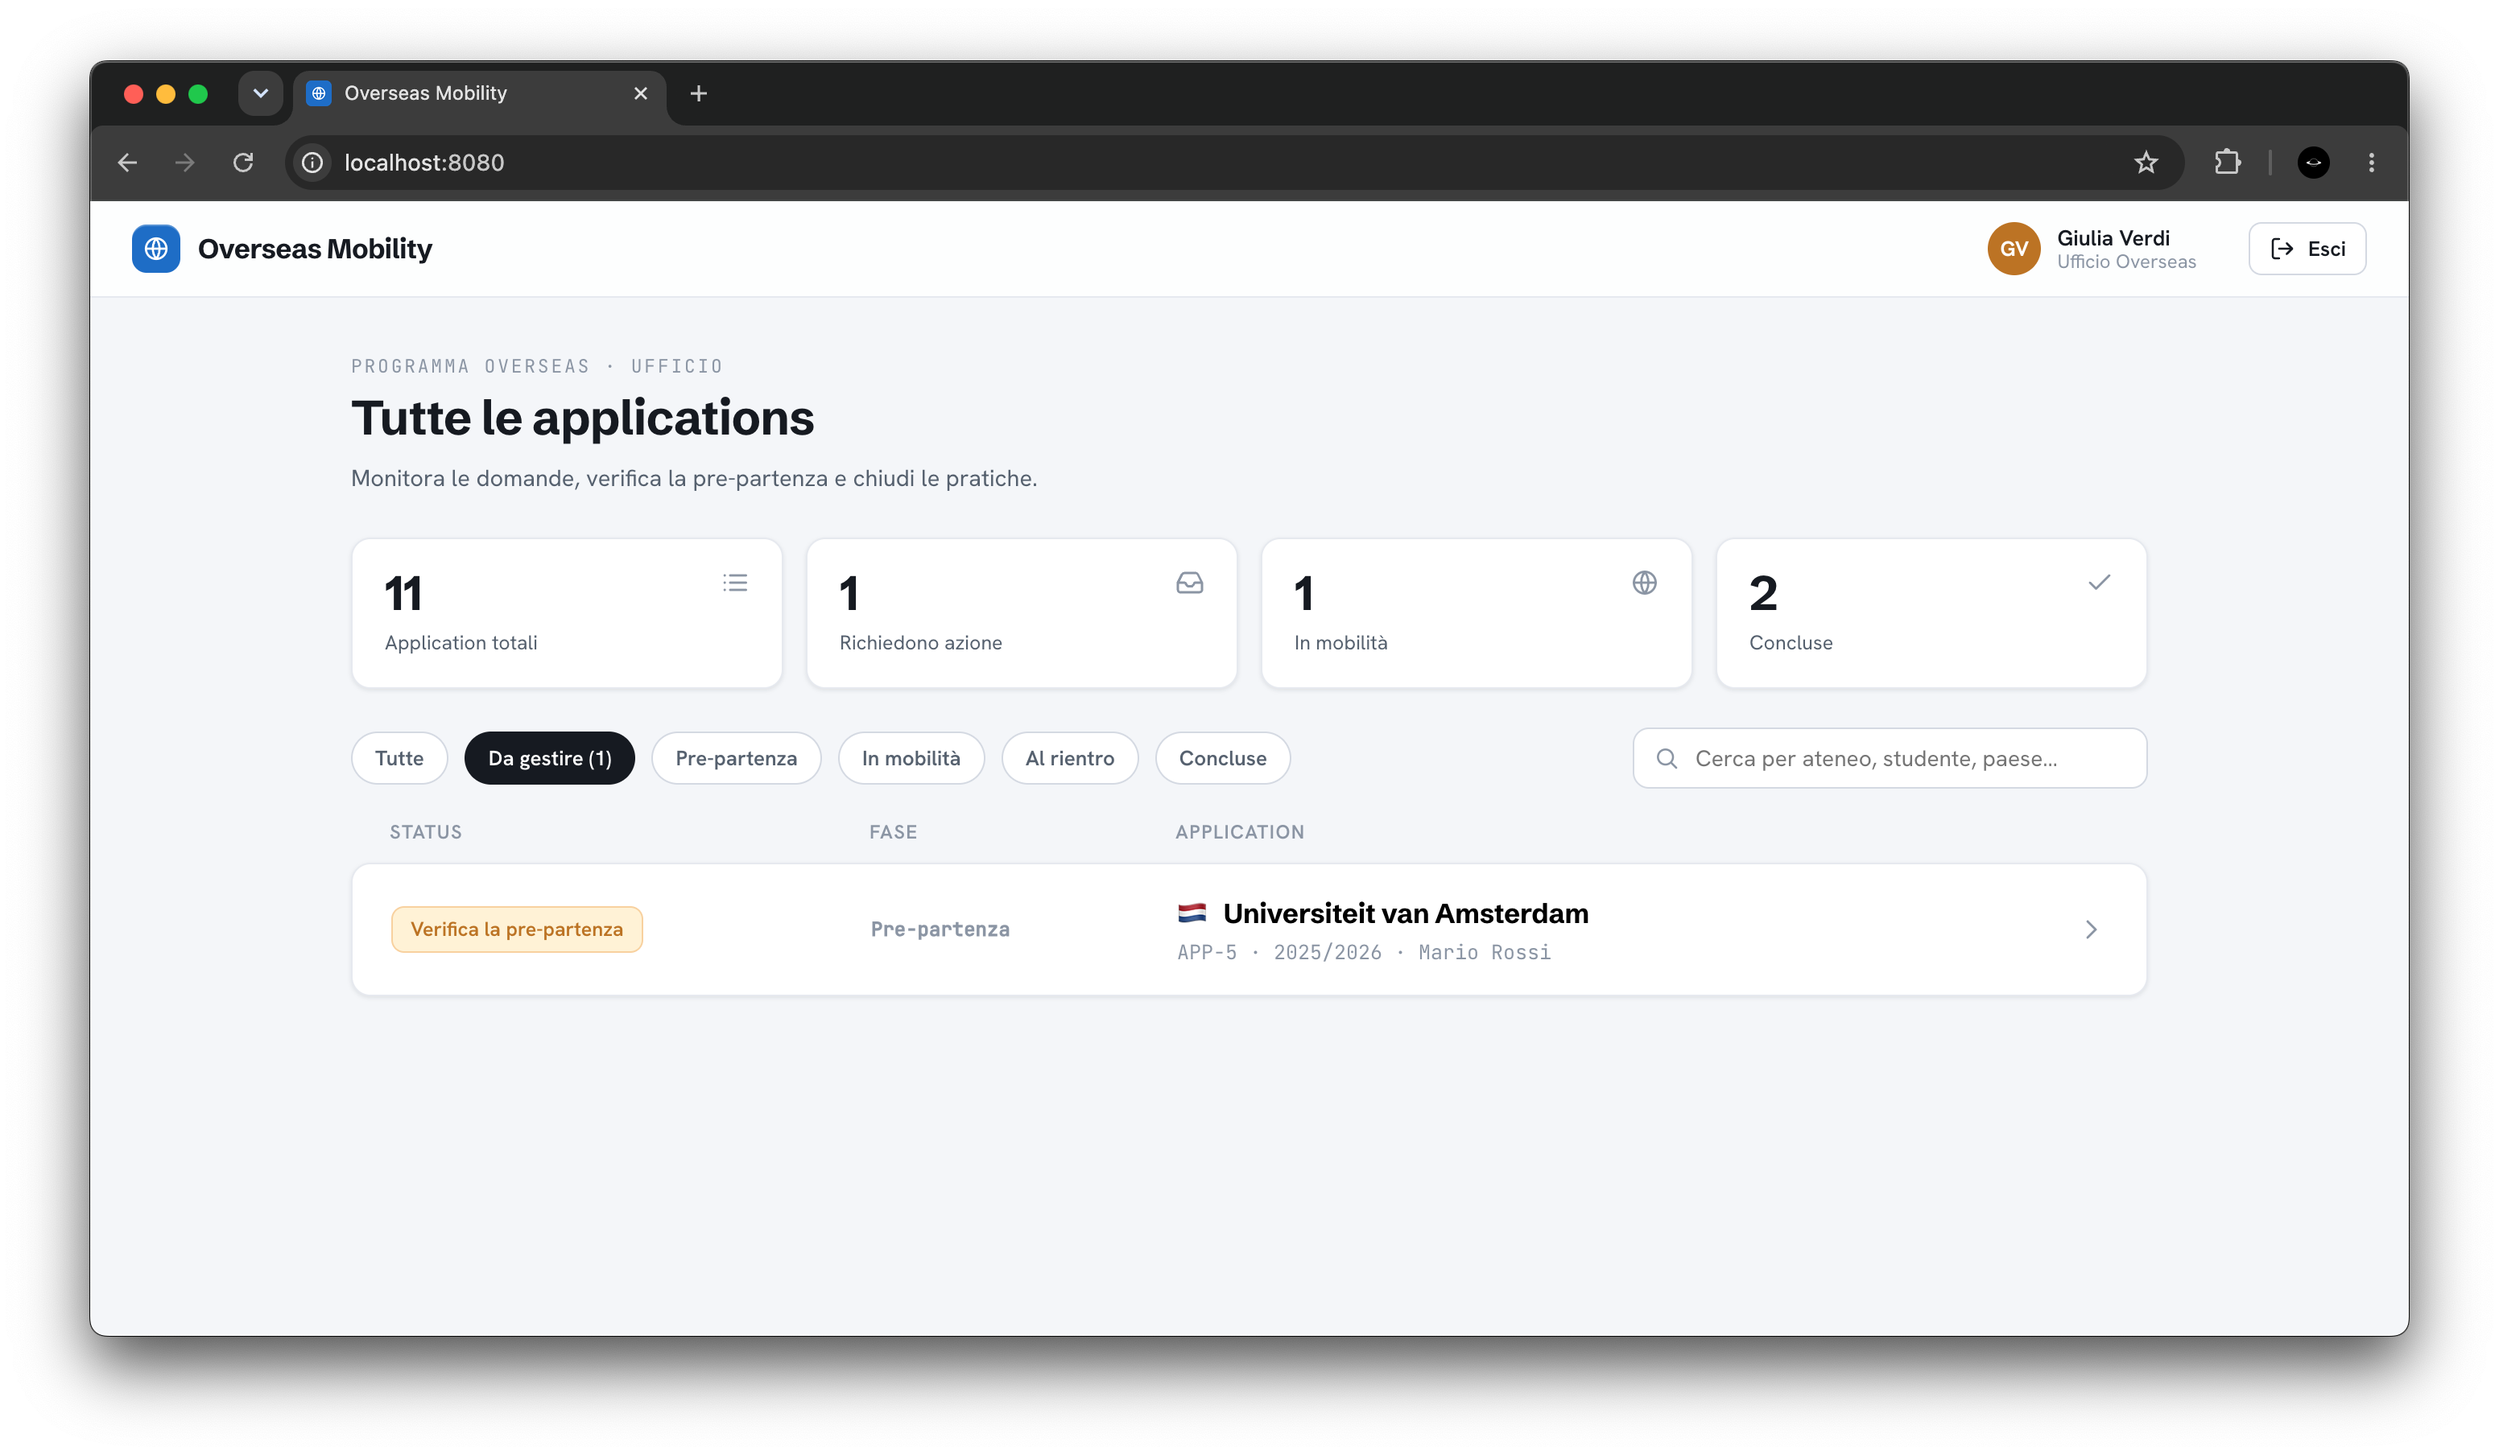
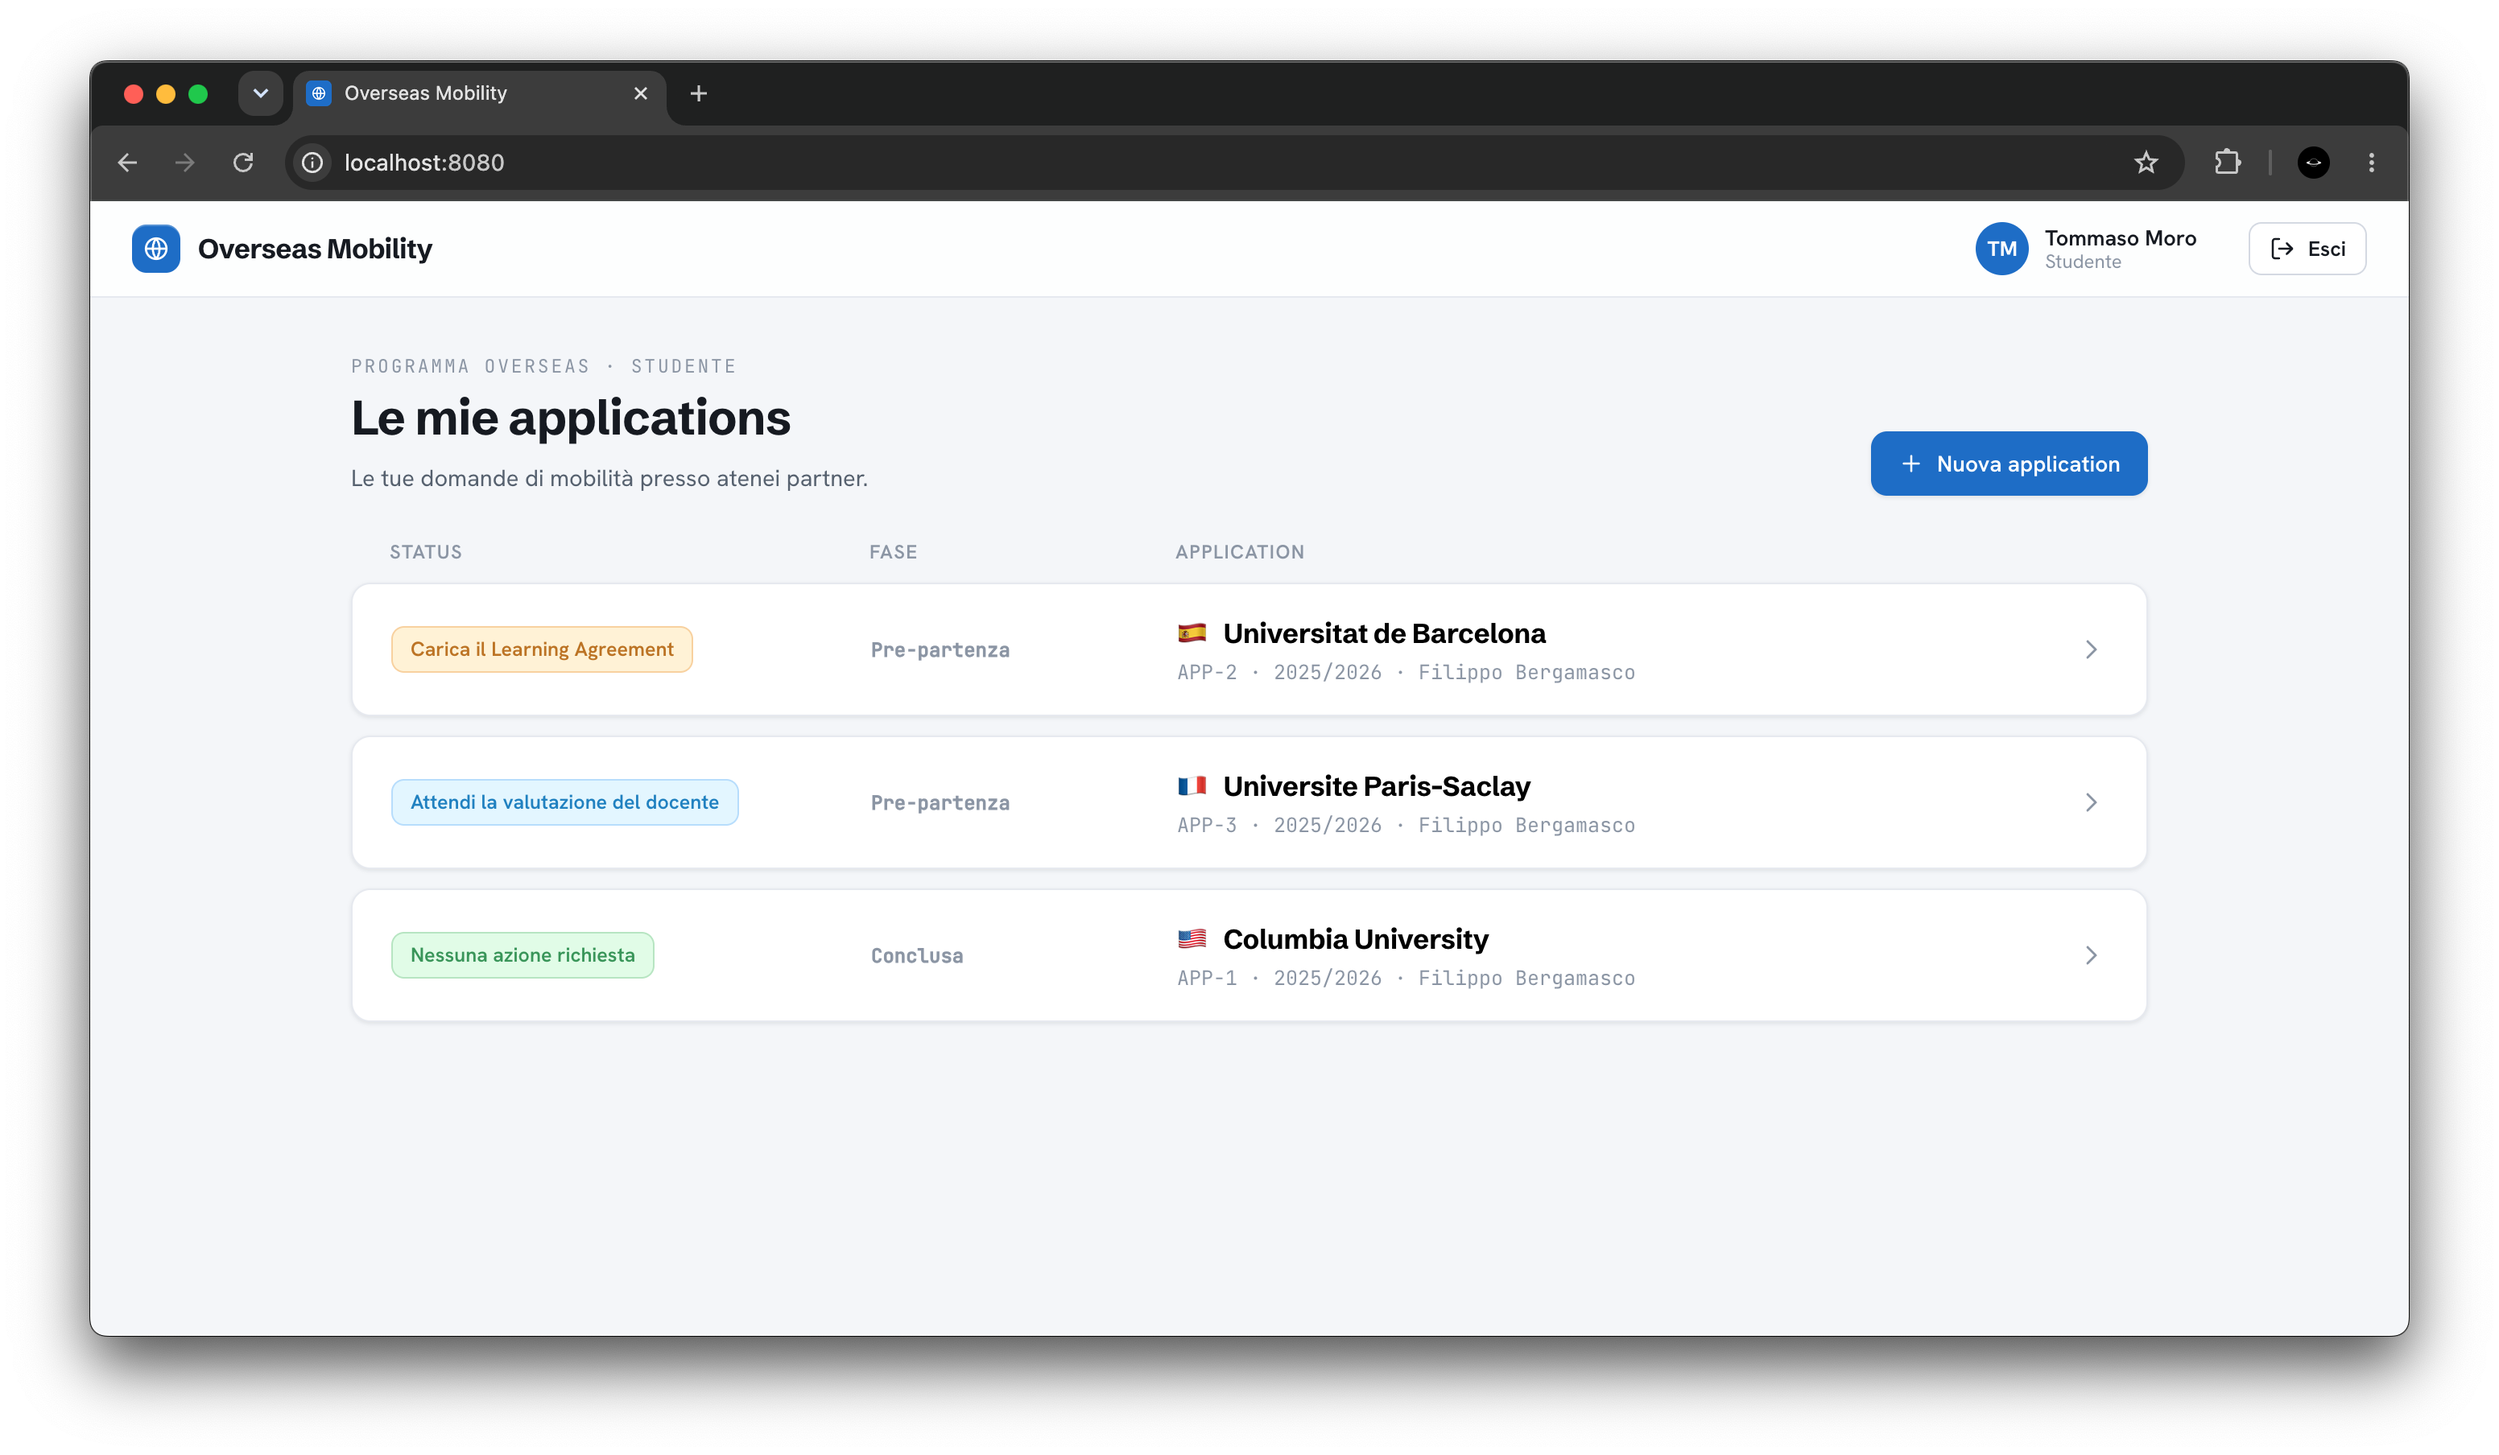
Use the student list as cover and update the gallery
student-list.png becomes cover.png, and the previous cover goes back to
office-list.png. The README and portfolio.yml now show student-la1,
lecturer-la and lecturer-list; the report links follow the renames.

diff --git a/README.md b/README.md
@@ -5,7 +5,7 @@ A full-stack web app that tracks a Ca' Foscari student's study period at a partn
 [![License: MIT](https://img.shields.io/badge/license-MIT-blue)](LICENSE)
 ![TypeScript](https://img.shields.io/badge/language-TypeScript-3178c6)
 
-![Office view: "Tutte le applications" page with counters for total, to-do, in-mobility and closed applications, status filters, a search box and one application waiting for the pre-departure check](docs/screenshots/cover.png)
+![Student view: "Le mie applications" page with three applications, each showing its status (upload the Learning Agreement, waiting for the lecturer, no action needed), phase, host university and referent lecturer, plus the "Nuova application" button](docs/screenshots/cover.png)
 
 **Live demo:** https://tommasomoro8.github.io/overseas-student-management/demo.html <!-- TODO: enable GitHub Pages (Settings → Pages → branch main, folder /docs) so this link works -->
 
@@ -54,9 +54,11 @@ After login, each role lands on its own list of applications. Every row shows th
 
 The detail page of an application shows a timeline of every step with who did it and when, all versions of each document with their outcome, and the history of proposed changes. If two people have the same application open, an action by one refreshes the other's page.
 
-![Student uploading the Learning Agreement: PDF drop zone and the form that maps a course abroad (code, name, credits) to a Ca' Foscari course (code, title, credits)](docs/screenshots/student-la2.png)
+![Student's application detail for Columbia University: "Carica il Learning Agreement" action box, empty exam mapping and the progress timeline with the steps still to come](docs/screenshots/student-la1.png)
 
 ![Lecturer view of an application waiting for review: Learning Agreement PDF to download, "Approva / Rifiuta" button, exam mapping and the progress timeline](docs/screenshots/lecturer-la.png)
+
+![Lecturer view: "Applications da seguire" page filtered on "Da gestire", with two applications waiting for the Learning Agreement evaluation](docs/screenshots/lecturer-list.png)
 
 The interface is in Italian. The [demo](https://tommasomoro8.github.io/overseas-student-management/demo.html) runs the same Angular app in the browser with an in-memory copy of the backend logic. Instead of the login it shows three buttons, one per role, with sample applications already in every state. Reloading the page resets the data.
 

diff --git a/docs/REPORT.md b/docs/REPORT.md
@@ -637,7 +637,7 @@ I passaggi sono illustrati con screenshot dell'applicazione in esecuzione, ripro
 ### 6.1 Studente
 
 1. **Login** e atterraggio su *"Le mie applications"*.
-   ![Lista delle application dello studente](screenshots/student-list.png)
+   ![Lista delle application dello studente](screenshots/cover.png)
 2. **Nuova application**: sceglie istituzione ospitante, docente referente, anno accademico e periodo → la domanda nasce in stato `DRAFT`.
    ![Wizard di creazione di una nuova application](screenshots/student-newapplication.png)
 3. **Invio Learning Agreement**: carica il PDF e compila il **mapping esami** (estero ↔ Ca' Foscari) → stato `LA_SUBMITTED`.
@@ -662,7 +662,7 @@ I passaggi sono illustrati con screenshot dell'applicazione in esecuzione, ripro
 ### 6.3 Ufficio (office)
 
 1. **Login** → *"Tutte le applications"* con statistiche e filtri per stato.
-   ![Lista ufficio con statistiche e filtri](screenshots/cover.png)
+   ![Lista ufficio con statistiche e filtri](screenshots/office-list.png)
 2. **Verifica la pre-partenza** per le domande con LA approvato (`LA_APPROVED → PRE_DEPARTURE_APPROVED`).
    ![Verifica della pre-partenza](screenshots/office-verify.png)
 3. **Chiude la pratica** quando il Transcript è approvato (`TOR_APPROVED → CLOSED`).
